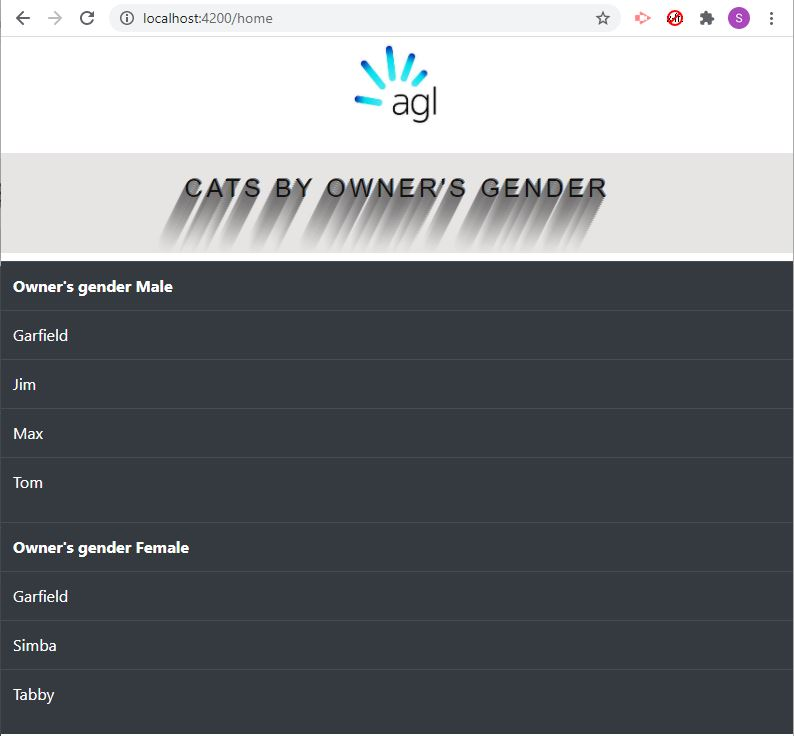
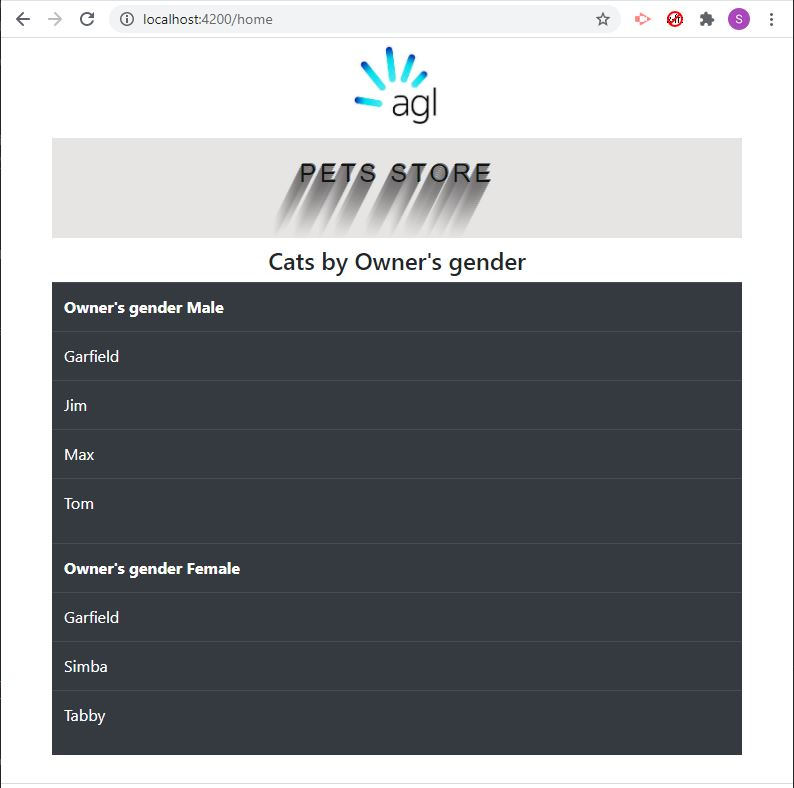
created bootstrap layout.

diff --git a/agl-ui/src/app/app.component.scss b/agl-ui/src/app/app.component.scss
@@ -1,0 +1,44 @@
+h1 {
+    font-family: "Avant Garde", Avantgarde, "Century Gothic", CenturyGothic, "AppleGothic", sans-serif;
+    font-size: 25px;
+    padding: 20px 10px;
+    text-align: center;
+    text-transform: uppercase;
+    text-rendering: optimizeLegibility;
+    
+    &.elegantshadow {
+      color: #131313;
+      background-color: #e7e5e4;
+      letter-spacing: .15em;
+      text-shadow: 
+        1px -1px 0 #767676, 
+        -1px 2px 1px #737272, 
+        -2px 4px 1px #767474, 
+        -3px 6px 1px #787777, 
+        -4px 8px 1px #7b7a7a, 
+        -5px 10px 1px #7f7d7d, 
+        -6px 12px 1px #828181, 
+        -7px 14px 1px #868585, 
+        -8px 16px 1px #8b8a89, 
+        -9px 18px 1px #8f8e8d, 
+        -10px 20px 1px #949392, 
+        -11px 22px 1px #999897, 
+        -12px 24px 1px #9e9c9c, 
+        -13px 26px 1px #a3a1a1, 
+        -14px 28px 1px #a8a6a6, 
+        -15px 30px 1px #adabab, 
+        -16px 32px 1px #b2b1b0, 
+        -17px 34px 1px #b7b6b5, 
+        -18px 36px 1px #bcbbba, 
+        -19px 38px 1px #c1bfbf, 
+        -20px 40px 1px #c6c4c4, 
+        -21px 42px 1px #cbc9c8, 
+        -22px 44px 1px #cfcdcd, 
+        -23px 46px 1px #d4d2d1, 
+        -24px 48px 1px #d8d6d5, 
+        -25px 50px 1px #dbdad9, 
+        -26px 52px 1px #dfdddc, 
+        -27px 54px 1px #e2e0df, 
+        -28px 56px 1px #e4e3e2;
+    }
+  }

diff --git a/agl-ui/src/app/app.component.html b/agl-ui/src/app/app.component.html
@@ -7,8 +7,18 @@
 <!-- * * * * * * * to get started with your project! * * * * * * * * -->
 <!-- * * * * * * * * * * * * * * * * * * * * * * * * * * * * * * * -->
 
-<p class="aligncenter">
-  <img src="../assets/AglLogo.jpg" style="width: 100px; height: 100px;"/>
-</p>
-
-<router-outlet></router-outlet>
+<div class="container">
+  <div class="row">
+    <div class="col-12 aligncenter">
+      <img src="../assets/AglLogo.jpg" style="width: 100px; height: 100px;"/>
+    </div>
+  </div>
+  <div class="row">
+    <div class="col-12">
+      <h1 style="height: 100px;" class="elegantshadow">Pets store</h1>
+    </div>
+  </div>
+  <div>
+    <router-outlet></router-outlet>
+  </div>
+</div>

diff --git a/agl-ui/src/app/components/agl-pets/agl-pets.component.html b/agl-ui/src/app/components/agl-pets/agl-pets.component.html
@@ -1,4 +1,6 @@
-<h1 style="height: 100px;" class="elegantshadow">Cats by Owner's gender</h1>
+<span class="aligncenter">
+  <h4>Cats by Owner's gender</h4>
+</span>
 
 <div class="panel panel-primary" style="text-align:center">    
   <div class="panel-body">
